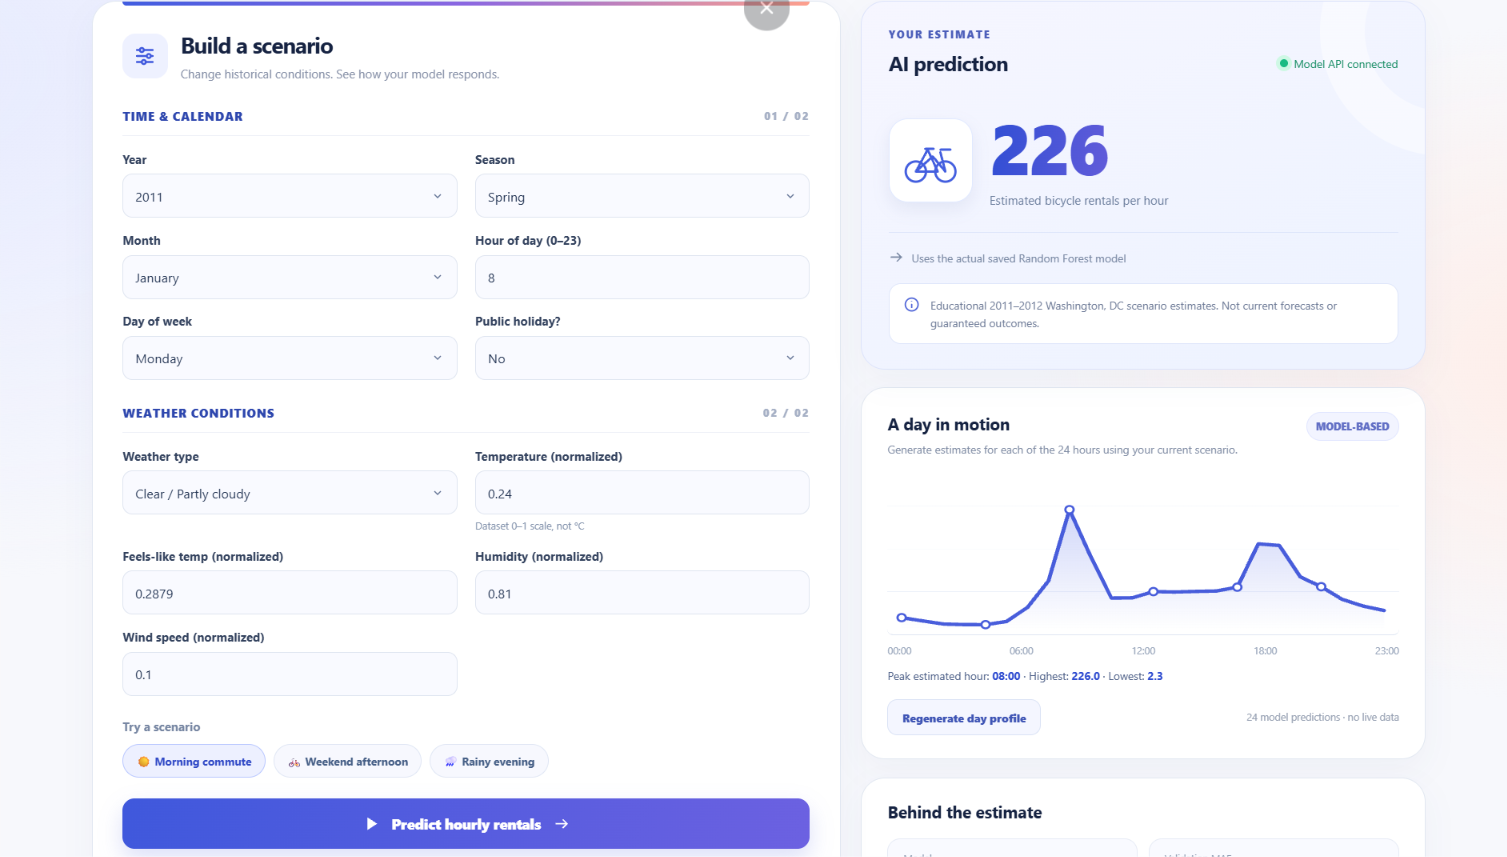
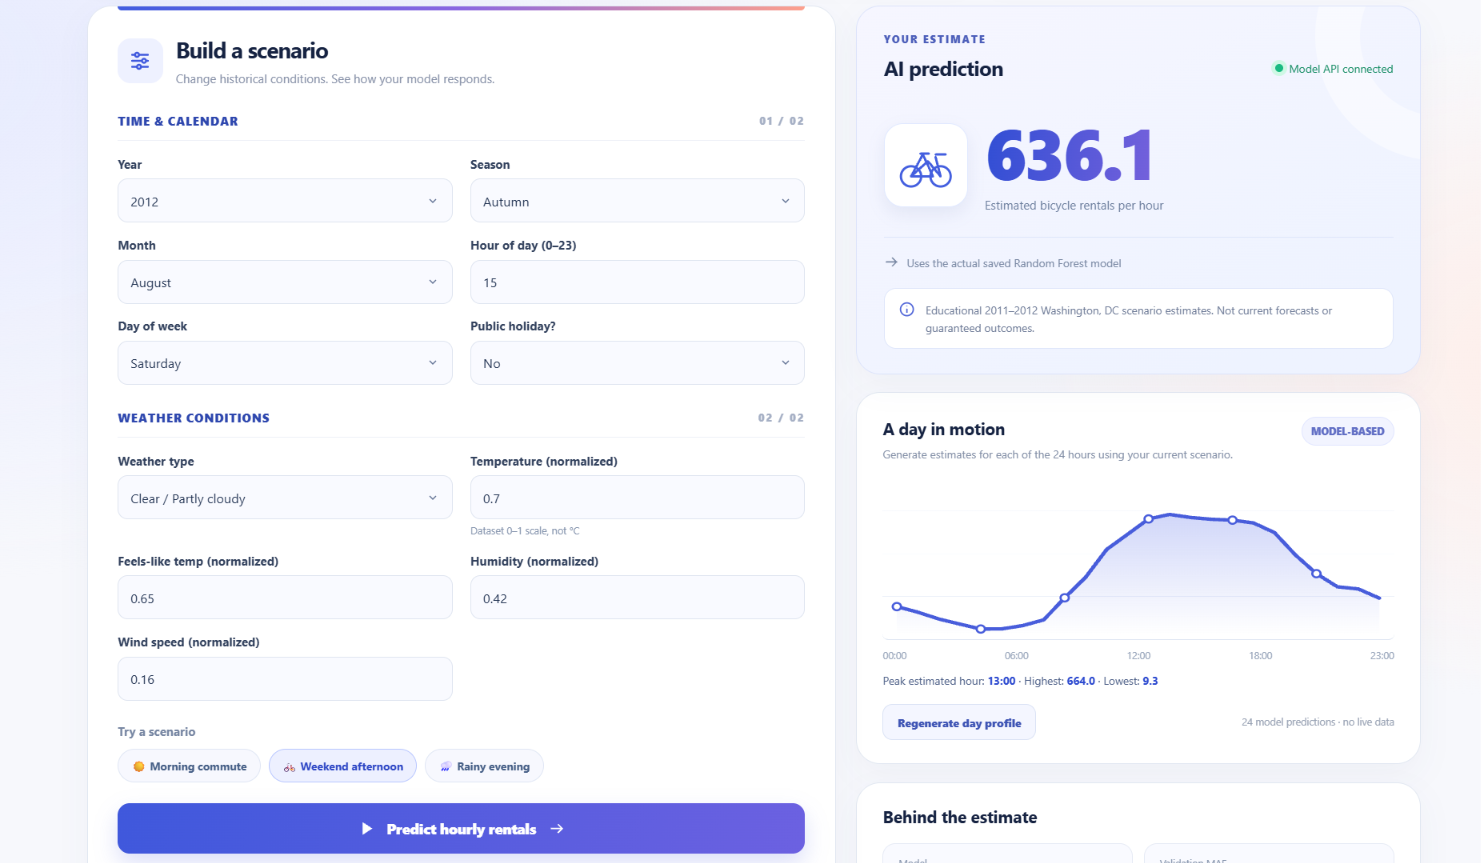
feat: showcase live PredictIQ application and updated case study

diff --git a/docs/predictiq.html b/docs/predictiq.html
@@ -47,10 +47,10 @@
       <h1>PredictIQ<span>.</span></h1>
       <h2>Urban mobility demand intelligence</h2>
 
-      <p>Explore estimated hourly bicycle rental demand using historical weather and calendar inputs. An educational, locally tested machine-learning application.</p>
+      <p>Explore estimated hourly bicycle rental demand using historical weather and calendar inputs. An educational machine-learning application publicly deployed on Vercel.</p>
 
       <div class="hero-actions">
-        <a class="btn btn-solid" href="https://github.com/HasithaGayan/predictiq" target="_blank" rel="noopener noreferrer">
+        <a class="btn btn-solid" href="https://predictiq-iota-plum.vercel.app/" target="_blank" rel="noopener noreferrer">Open live demo &#8599;</a><a class="btn btn-outline" href="https://github.com/HasithaGayan/predictiq" target="_blank" rel="noopener noreferrer">
           View source code ↗
         </a>
         <a class="btn btn-outline" href="#evaluation">
@@ -58,7 +58,7 @@
         </a>
       </div>
 
-      <p class="pq-muted">LOCAL DEMO · NO PUBLIC PREDICTION SERVICE</p>
+      <p class="pq-muted">LIVE DEMO &#183; PUBLIC PREDICTION SERVICE</p>
     </div>
 
     <div class="pq-stats">
@@ -141,7 +141,7 @@
 
       <p>Three expanding chronological cross-validation folds compared four Random Forest configurations. The selected configuration uses 70 trees, maximum depth 18 and minimum leaf size 2; its training-only CV MAE was 54.4441.</p>
 
-      <p>Two engineered features capture commuting-hour patterns and temperature–humidity interaction. The training pipeline is saved locally for consistent inference; the earlier model is preserved for comparison.</p>
+      <p>Two engineered features capture commuting-hour patterns and temperature–humidity interaction. The verified trained pipeline is packaged for consistent cloud inference; the earlier model is preserved for comparison.</p>
     </section>
 
     <section class="pq-section">
@@ -185,7 +185,7 @@
         </table>
       </div>
 
-      <p>To reproduce locally, follow the repository setup instructions, prepare the dataset and regenerate the trusted model before starting the API.</p>
+      <p>To run locally, follow the repository setup instructions and use the verified trained model. To reproduce training, prepare the original dataset and follow the documented experiments.</p>
 
       <pre class="pq-code">python -m uvicorn backend.app:app --host 127.0.0.1 --port 8000
 python -m pytest tests -q</pre>
@@ -196,7 +196,7 @@ python -m pytest tests -q</pre>
 
       <p>The held-out 2,600 observations remain unused. One validation example on 1 August 2012 at 18:00 had 891 actual rentals versus 409.92 predicted, an absolute error of 481.08. Its cause is not established. Historical data cannot establish present-day forecasting performance.</p>
 
-      <p>The raw dataset and trained joblib artifact are excluded from GitHub. New installations must reproduce training; never load untrusted joblib or pickle files. Public hosting and final held-out evaluation remain future work.</p>
+      <p>The raw dataset remains excluded from GitHub. The verified trained model is included for deployment. Never load untrusted joblib or pickle files. Public hosting is implemented on Vercel; final held-out evaluation remains pending.</p>
     </section>
 
     <section class="pq-section">

diff --git a/docs/index.html b/docs/index.html
@@ -144,7 +144,7 @@ focusable="false" style="position:absolute;pointer-events:none">
 <div class="project-body">
     <div class="project-topline">
       <span class="project-index">03 / MACHINE LEARNING</span>
-      <span class="project-status local">LOCAL TESTED</span>
+      <span class="project-status live"><span class="status-dot"></span> LIVE DEMO</span>
     </div>
 
     <h3>
@@ -153,7 +153,7 @@ focusable="false" style="position:absolute;pointer-events:none">
       </a>
     </h3>
 
-    <p>Historical bicycle rental-demand exploration using a trained Random Forest, a validated FastAPI endpoint and a responsive 24-hour prediction interface.</p>
+    <p>A publicly deployed machine learning application for historical bicycle-demand exploration, powered by a trained Random Forest, FastAPI and interactive 24-hour predictions.</p>
 
     <div class="tech-tags">
       <span>Python</span>
@@ -170,7 +170,7 @@ focusable="false" style="position:absolute;pointer-events:none">
       <a href="https://github.com/HasithaGayan/predictiq" target="_blank" rel="noopener noreferrer">
         Source code <span aria-hidden="true">↗</span>
       </a>
-      <span class="non-link-status">Public demo pending</span>
+      <a href="https://predictiq-iota-plum.vercel.app/" target="_blank" rel="noopener noreferrer">Open live demo <span aria-hidden="true">&#8599;</span></a>
     </div>
 
     <details class="project-details">
